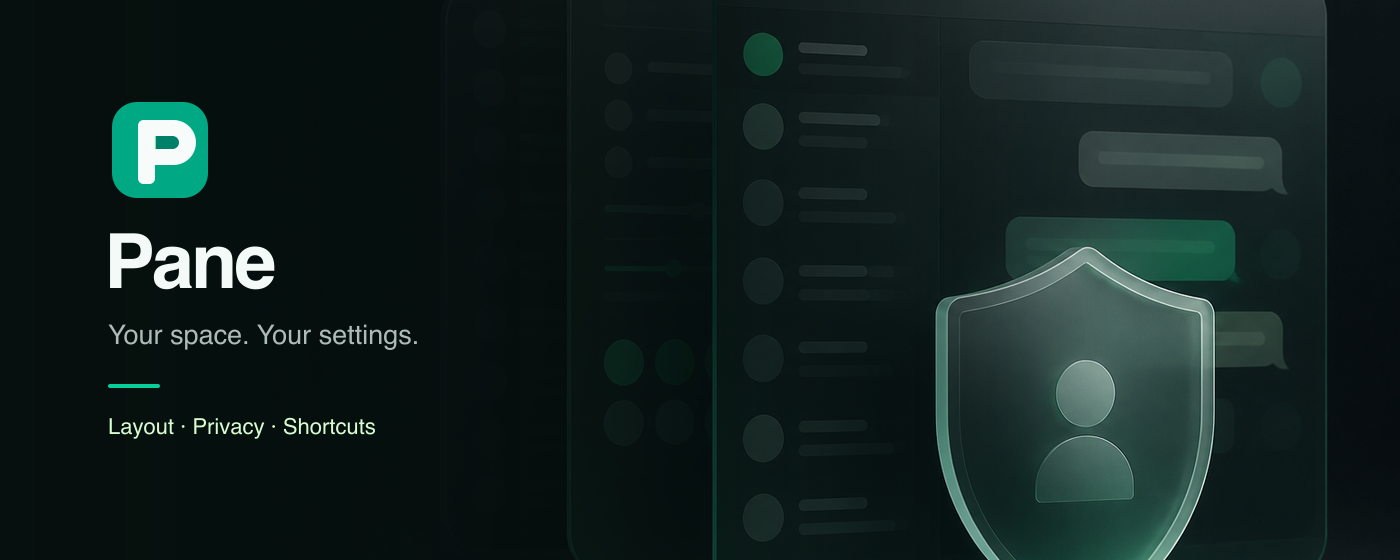
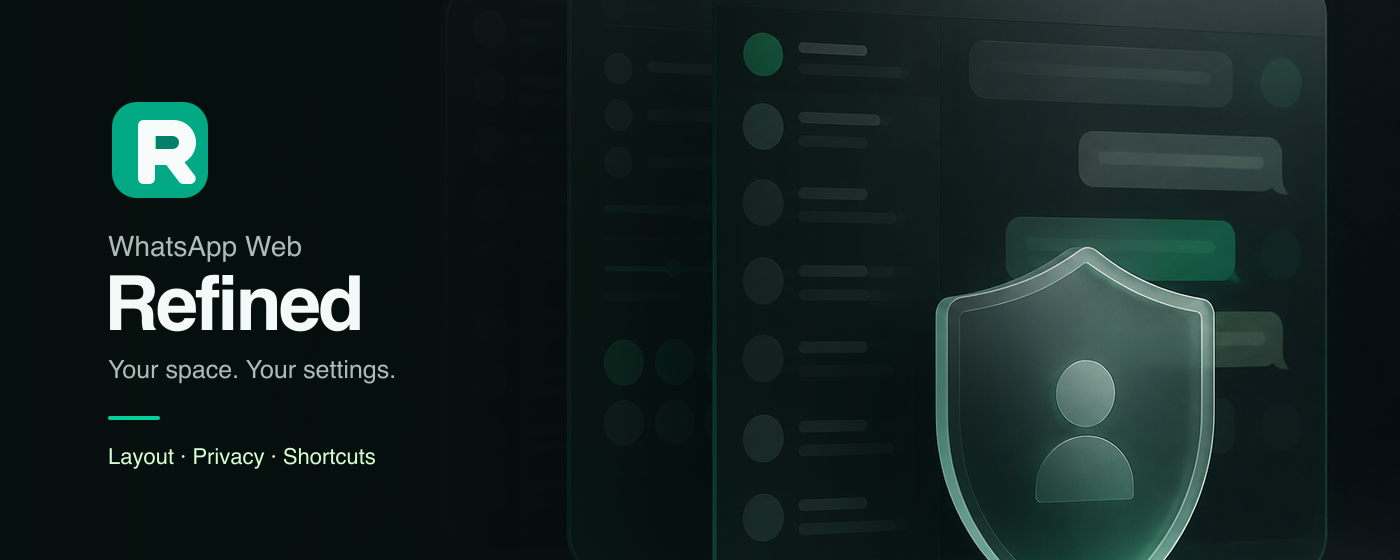
fix: restore WhatsApp Web Refined name

Changed region(s): [[0.0614, 0.3946, 0.3071, 0.6982], [0.0614, 0.7286, 0.2764, 0.85], [0.1229, 0.2732, 0.1536, 0.3339]]

diff --git a/popup/popup.html b/popup/popup.html
@@ -3,7 +3,7 @@
   <head>
     <meta charset="utf-8">
     <meta name="viewport" content="width=device-width, initial-scale=1">
-    <title>Pane settings</title>
+    <title>WhatsApp Web Refined settings</title>
     <link rel="stylesheet" href="popup.css">
   </head>
   <body>
@@ -11,10 +11,10 @@
       <header class="app-header">
         <img class="mark" src="../icons/icon.svg" alt="">
         <div class="title-block">
-          <h1>Pane</h1>
+          <h1>WhatsApp Web Refined</h1>
           <p>Make your workspace feel like yours.</p>
         </div>
-        <label class="toggle master-toggle" title="Enable Pane">
+        <label class="toggle master-toggle" title="Enable WhatsApp Web Refined">
           <input id="enabled" data-setting="enabled" type="checkbox">
           <span aria-hidden="true"></span>
         </label>
@@ -83,14 +83,14 @@
             <span><b id="platformName">macOS shortcuts</b><small id="platformHelp">Uses Command and Option</small></span>
           </div>
 
-          <label class="switch-row standalone-switch" for="keyboardShortcuts"><span><b>Pane shortcuts</b><small>Active while the WhatsApp tab is focused</small></span><input id="keyboardShortcuts" data-setting="keyboardShortcuts" type="checkbox"><i aria-hidden="true"></i></label>
+          <label class="switch-row standalone-switch" for="keyboardShortcuts"><span><b>Refined shortcuts</b><small>Active while the WhatsApp tab is focused</small></span><input id="keyboardShortcuts" data-setting="keyboardShortcuts" type="checkbox"><i aria-hidden="true"></i></label>
 
           <div class="shortcut-list" aria-label="Available keyboard shortcuts">
             <div class="shortcut-row"><span><b>Focus search</b><small>Jump to WhatsApp search</small></span><span class="shortcut-keys" data-mac="⌥|⌘|K" data-other="Ctrl|Alt|K"></span></div>
             <div class="shortcut-row"><span><b>New chat</b><small>Open WhatsApp’s native new-chat panel</small></span><span class="shortcut-keys" data-mac="⌥|⌘|N" data-other="Ctrl|Alt|N"></span></div>
             <div class="shortcut-row"><span><b>Previous / next folder</b><small>Cycles native tabs or sidebar folders</small></span><span class="shortcut-keys" data-mac="⌥|⌘|← / →" data-other="Ctrl|Alt|← / →"></span></div>
             <div class="shortcut-row"><span><b>Privacy mode</b><small>Blur or reveal protected content</small></span><span class="shortcut-keys" data-mac="⌥|⌘|P" data-other="Ctrl|Alt|P"></span></div>
-            <div class="shortcut-row"><span><b>Pane settings</b><small>Open or close this drawer</small></span><span class="shortcut-keys" data-mac="⌥|⌘|," data-other="Ctrl|Alt|,"></span></div>
+            <div class="shortcut-row"><span><b>Refined settings</b><small>Open or close this drawer</small></span><span class="shortcut-keys" data-mac="⌥|⌘|," data-other="Ctrl|Alt|,"></span></div>
           </div>
 
           <p class="shortcut-note">WhatsApp’s own keyboard shortcuts continue to work unchanged. Press Escape to close the settings drawer.</p>

diff --git a/src/content.js b/src/content.js
@@ -1,8 +1,8 @@
-(function initPane() {
+(function initWhatsAppWebRefined() {
   "use strict";
 
-  if (window.top !== window || window.__paneLoaded) return;
-  window.__paneLoaded = true;
+  if (window.top !== window || window.__whatsAppWebRefinedLoaded) return;
+  window.__whatsAppWebRefinedLoaded = true;
 
   const utils = globalThis.WRUtils;
   const { DEFAULTS, normalizeSettings } = globalThis.WRSettings;
@@ -81,7 +81,7 @@
 
     sidebarActions = document.createElement("div");
     sidebarActions.id = "wr-sidebar-actions";
-    sidebarActions.setAttribute("aria-label", "Pane tools");
+    sidebarActions.setAttribute("aria-label", "WhatsApp Web Refined tools");
 
     privacyAction = createButton("wr-sidebar-action wr-sidebar-action--privacy", "Toggle privacy mode", iconMarkup("privacy") + '<span>Privacy</span>');
     privacyAction.disabled = !settings.enabled;
@@ -89,7 +89,7 @@
     privacyAction.setAttribute("aria-pressed", String(settings.privacyEnabled));
     privacyAction.addEventListener("click", togglePrivacy);
 
-    settingsAction = createButton("wr-sidebar-action", "Open Pane settings", iconMarkup("settings") + '<span>Settings</span>');
+    settingsAction = createButton("wr-sidebar-action", "Open Refined settings", iconMarkup("settings") + '<span>Settings</span>');
     settingsAction.setAttribute("aria-pressed", "false");
     settingsAction.addEventListener("click", () => toggleDrawer());
     sidebarActions.append(privacyAction, settingsAction);
@@ -98,15 +98,15 @@
   function createDrawer() {
     drawer = document.createElement("aside");
     drawer.id = "wr-settings-drawer";
-    drawer.setAttribute("aria-label", "Pane settings");
+    drawer.setAttribute("aria-label", "WhatsApp Web Refined settings");
     drawer.setAttribute("aria-hidden", "true");
 
-    const close = createButton("wr-drawer-close", "Close Pane settings", '<svg viewBox="0 0 24 24" aria-hidden="true"><path d="m7 7 10 10M17 7 7 17"/></svg>');
+    const close = createButton("wr-drawer-close", "Close Refined settings", '<svg viewBox="0 0 24 24" aria-hidden="true"><path d="m7 7 10 10M17 7 7 17"/></svg>');
     close.addEventListener("click", () => toggleDrawer(false));
 
     const frame = document.createElement("iframe");
     frame.className = "wr-settings-frame";
-    frame.title = "Pane settings";
+    frame.title = "WhatsApp Web Refined settings";
     const dark = document.documentElement.classList.contains("dark") || document.body.classList.contains("dark");
     const settingsPage = globalThis.chrome?.runtime?.getURL ? chrome.runtime.getURL("popup/popup.html") : "../popup/popup.html";
     const previewSnapshot = location.protocol === "file:" ? `&previewSettings=${encodeURIComponent(JSON.stringify(settings))}` : "";

diff --git a/store/build-assets.js b/store/build-assets.js
@@ -24,7 +24,7 @@ function svgOverlay(width, height, content) {
 }
 
 async function buildPromoAssets() {
-  const art = path.join(__dirname, "source", "pane-marketing-artwork.png");
+  const art = path.join(__dirname, "source", "whatsapp-web-refined-marketing-artwork.png");
   const icon = path.join(root, "icons", "icon128.png");
 
   const marqueeText = svgOverlay(1400, 560, `
@@ -36,10 +36,11 @@ async function buildPromoAssets() {
       </linearGradient>
     </defs>
     <rect width="1400" height="560" fill="url(#shade)"/>
-    <text class="title" x="104" y="288" fill="#f4faf7" font-size="76">Pane</text>
-    <text class="copy" x="108" y="344" fill="#aebcb8" font-size="27">Your space. Your settings.</text>
-    <rect x="108" y="384" width="52" height="4" rx="2" fill="#06cf9c"/>
-    <text class="copy" x="108" y="434" fill="#d9fdd3" font-size="22">Layout · Privacy · Shortcuts</text>
+    <text class="copy" x="108" y="256" fill="#aebcb8" font-size="28">WhatsApp Web</text>
+    <text class="title" x="104" y="330" fill="#f4faf7" font-size="76">Refined</text>
+    <text class="copy" x="108" y="378" fill="#aebcb8" font-size="25">Your space. Your settings.</text>
+    <rect x="108" y="416" width="52" height="4" rx="2" fill="#06cf9c"/>
+    <text class="copy" x="108" y="464" fill="#d9fdd3" font-size="22">Layout · Privacy · Shortcuts</text>
   `);
 
   await sharp(art)
@@ -60,8 +61,8 @@ async function buildPromoAssets() {
       </linearGradient>
     </defs>
     <rect width="440" height="280" fill="url(#shade)"/>
-    <text class="title" x="38" y="202" fill="#f4faf7" font-size="43">${escapeXml("Pane")}</text>
-    <text class="copy" x="40" y="234" fill="#b9c8c3" font-size="16">Layout and privacy, naturally.</text>
+    <text class="copy" x="40" y="198" fill="#b9c8c3" font-size="18">WhatsApp Web</text>
+    <text class="title" x="38" y="240" fill="#f4faf7" font-size="43">${escapeXml("Refined")}</text>
   `);
 
   await sharp(art)
@@ -107,7 +108,7 @@ async function buildScreenshots() {
 (async () => {
   await buildPromoAssets();
   await buildScreenshots();
-  console.log("Built Pane Chrome Web Store assets in store/assets");
+  console.log("Built WhatsApp Web Refined Chrome Web Store assets in store/assets");
 })().catch((error) => {
   console.error(error);
   process.exitCode = 1;

diff --git a/popup/about.html b/popup/about.html
@@ -3,7 +3,7 @@
   <head>
     <meta charset="utf-8">
     <meta name="viewport" content="width=device-width, initial-scale=1">
-    <title>Pane</title>
+    <title>WhatsApp Web Refined</title>
     <link rel="stylesheet" href="about.css">
   </head>
   <body>
@@ -11,7 +11,7 @@
       <header>
         <img class="mark" src="../icons/icon.svg" alt="">
         <div class="identity">
-          <h1>Pane</h1>
+          <h1>WhatsApp Web Refined</h1>
           <p>A calmer workspace for WhatsApp Web.</p>
         </div>
         <span class="state-dot" id="stateDot" aria-hidden="true"></span>
@@ -20,10 +20,10 @@
       <section class="activation" aria-labelledby="activationTitle">
         <div>
           <span class="eyebrow">Extension status</span>
-          <h2 id="activationTitle">Pane is active</h2>
+          <h2 id="activationTitle">Refined is active</h2>
           <p id="activationHelp">Your layout and privacy preferences are applied.</p>
         </div>
-        <button id="activationButton" type="button" aria-pressed="true">Pause Pane</button>
+        <button id="activationButton" type="button" aria-pressed="true">Pause Refined</button>
       </section>
 
       <section class="details" aria-label="Privacy summary">
@@ -38,8 +38,8 @@
       </section>
 
       <footer>
-        <p>Open Pane from the Settings button inside WhatsApp’s sidebar.</p>
-        <span id="version">v1.0.0</span>
+        <p>Open Refined from the Settings button inside WhatsApp’s sidebar.</p>
+        <span id="version">v1.0.1</span>
       </footer>
     </main>
     <script src="../src/settings.js"></script>

diff --git a/demo/index.html b/demo/index.html
@@ -3,7 +3,7 @@
   <head>
     <meta charset="utf-8">
     <meta name="viewport" content="width=device-width, initial-scale=1">
-    <title>Pane — local preview</title>
+    <title>WhatsApp Web Refined — local preview</title>
     <link rel="stylesheet" href="../src/content.css">
     <style>
       :root { --app-background:#161717; --primary:#fafafa; --secondary:rgba(255,255,255,.6); --secondary-rgb:102,119,129; --icon:rgba(255,255,255,.6); --icon-high-emphasis:#00a884; }
@@ -156,7 +156,7 @@
     <script>
       if (previewQuery.has("settings")) {
         window.setTimeout(() => {
-          document.querySelector('button[aria-label="Open Pane settings"]')?.click();
+          document.querySelector('button[aria-label="Open Refined settings"]')?.click();
           const frame = document.querySelector(".wr-settings-frame");
           const openRequestedPanel = () => {
             const target = previewQuery.get("panel") || "layout";

diff --git a/popup/about.js b/popup/about.js
@@ -9,11 +9,11 @@
   function render(value) {
     enabled = Boolean(value);
     document.body.classList.toggle("is-paused", !enabled);
-    document.querySelector("#activationTitle").textContent = enabled ? "Pane is active" : "Pane is paused";
+    document.querySelector("#activationTitle").textContent = enabled ? "Refined is active" : "Refined is paused";
     document.querySelector("#activationHelp").textContent = enabled
       ? "Your layout and privacy preferences are applied."
       : "Activate it to restore your saved interface preferences.";
-    button.textContent = enabled ? "Pause Pane" : "Activate Pane";
+    button.textContent = enabled ? "Pause Refined" : "Activate Refined";
     button.setAttribute("aria-pressed", String(enabled));
     document.querySelector("#stateDot").title = enabled ? "Active" : "Paused";
   }

diff --git a/store/listing.md b/store/listing.md
@@ -2,7 +2,7 @@
 
 ## Product name
 
-Pane
+WhatsApp Web Refined
 
 ## Summary
 
@@ -14,7 +14,7 @@ Productivity
 
 ## Detailed description
 
-Pane gives you thoughtful control over WhatsApp Web without making it feel like a different app.
+WhatsApp Web Refined gives you thoughtful control over WhatsApp Web without making it feel like a different app.
 
 Choose where chat filters live, resize the chat list to suit your screen, hide interface elements you do not use, and protect sensitive conversations with a configurable privacy blur. Every control follows the visual language and interaction patterns already used by WhatsApp Web.
 
@@ -30,37 +30,37 @@ Key features:
 
 Private by design:
 
-Pane contains no analytics, ads, tracking, or remote code. It does not collect or transmit messages, contacts, phone numbers, media, folder names, or usage data. Your preferences stay in local browser storage.
+WhatsApp Web Refined contains no analytics, ads, tracking, or remote code. It does not collect or transmit messages, contacts, phone numbers, media, folder names, or usage data. Your preferences stay in local browser storage.
 
-Pane is an independent extension and is not affiliated with, endorsed by, or sponsored by WhatsApp or Meta. WhatsApp is a trademark of WhatsApp LLC.
+WhatsApp Web Refined is an independent extension and is not affiliated with, endorsed by, or sponsored by WhatsApp or Meta. WhatsApp is a trademark of WhatsApp LLC.
 
 ## Screenshot captions
 
 1. **Your workspace, your width** — Resize the chat panel and keep every control where it feels natural.
 2. **Privacy when you need it** — Blur previews, messages, media, names, and profile photos in one click.
 3. **Folders without the clutter** — Move WhatsApp’s existing filters into its navigation sidebar.
-4. **Shortcuts that fit your computer** — Pane automatically shows the correct macOS, Windows, or Linux keys.
+4. **Shortcuts that fit your computer** — Refined automatically shows the correct macOS, Windows, or Linux keys.
 5. **Quiet by default** — Hide the prompts and navigation items you do not use.
 
 ## Privacy dashboard answers
 
 **Single purpose:** Customize the layout and on-screen privacy presentation of WhatsApp Web according to user-selected preferences.
 
-**`storage` justification:** Stores the user’s Pane preferences locally in the browser so they persist between WhatsApp Web sessions.
+**`storage` justification:** Stores the user’s Refined preferences locally in the browser so they persist between WhatsApp Web sessions.
 
 **Host permission justification:** Runs only on `https://web.whatsapp.com/*` to add the selected layout controls and privacy presentation to that page.
 
 **Remote code:** No.
 
-**Data collection:** None. Pane does not collect, sell, or transmit user data.
+**Data collection:** None. WhatsApp Web Refined does not collect, sell, or transmit user data.
 
 ## Reviewer test instructions
 
 1. Install the unpacked extension and open `https://web.whatsapp.com/`.
 2. Sign in to WhatsApp Web with a test account.
-3. Use the new Settings button in the left navigation to open Pane.
+3. Use the new Settings button in the left navigation to open Refined.
 4. Toggle the chat-folder location, privacy options, and hidden navigation options.
 5. Enable “Resizable chat panel” and drag the right edge of the chat list.
-6. Confirm the toolbar popup can pause and reactivate Pane.
+6. Confirm the toolbar popup can pause and reactivate Refined.
 
 No additional credentials or external service are required beyond access to WhatsApp Web.

diff --git a/store/privacy-policy.md b/store/privacy-policy.md
@@ -1,31 +1,31 @@
-# Pane Privacy Policy
+# WhatsApp Web Refined Privacy Policy
 
 Effective date: August 7, 2026
 
-Pane is a browser extension that customizes the layout and on-screen privacy presentation of WhatsApp Web.
+WhatsApp Web Refined is a browser extension that customizes the layout and on-screen privacy presentation of WhatsApp Web.
 
 ## Data collection
 
-Pane does not collect, transmit, sell, or share personal data or usage data. It contains no analytics, advertising, tracking, telemetry, or remote code.
+WhatsApp Web Refined does not collect, transmit, sell, or share personal data or usage data. It contains no analytics, advertising, tracking, telemetry, or remote code.
 
 ## Page access
 
-Pane runs only on `https://web.whatsapp.com/*`. It reads the visible page structure needed to locate interface elements such as the chat list, filter tabs, navigation buttons, and message surfaces. This processing happens locally in the browser. Pane does not copy, store, or transmit messages, contacts, phone numbers, media, folder names, or account information.
+WhatsApp Web Refined runs only on `https://web.whatsapp.com/*`. It reads the visible page structure needed to locate interface elements such as the chat list, filter tabs, navigation buttons, and message surfaces. This processing happens locally in the browser. The extension does not copy, store, or transmit messages, contacts, phone numbers, media, folder names, or account information.
 
 ## Local preferences
 
-Pane uses Chrome’s local extension storage to remember settings such as panel width, hidden interface elements, shortcut preferences, and privacy blur options. These preferences remain on the current browser profile unless the user removes the extension data.
+WhatsApp Web Refined uses Chrome’s local extension storage to remember settings such as panel width, hidden interface elements, shortcut preferences, and privacy blur options. These preferences remain on the current browser profile unless the user removes the extension data.
 
 ## Network activity
 
-Pane does not send network requests and does not communicate with a developer-controlled server or third party.
+WhatsApp Web Refined does not send network requests and does not communicate with a developer-controlled server or third party.
 
 ## Changes
 
-If Pane’s data practices change, this policy and the Chrome Web Store privacy disclosures will be updated before the change is released.
+If the extension’s data practices change, this policy and the Chrome Web Store privacy disclosures will be updated before the change is released.
 
 ## Contact
 
-For privacy questions, contact the publisher through the support channel shown on Pane’s Chrome Web Store listing.
+For privacy questions, contact the publisher through the support channel shown on the Chrome Web Store listing.
 
-Pane is an independent project and is not affiliated with, endorsed by, or sponsored by WhatsApp or Meta. WhatsApp is a trademark of WhatsApp LLC.
+WhatsApp Web Refined is an independent project and is not affiliated with, endorsed by, or sponsored by WhatsApp or Meta. WhatsApp is a trademark of WhatsApp LLC.

diff --git a/store/brand.md b/store/brand.md
@@ -1,22 +1,23 @@
-# Pane brand guide
+# WhatsApp Web Refined brand guide
 
 ## Positioning
 
-Pane is the quiet control layer for WhatsApp Web: useful, local, and visually at home. Its identity is deliberately distinct from WhatsApp’s logo while its product UI follows the host application’s established tokens.
+WhatsApp Web Refined is the quiet control layer for WhatsApp Web: useful, local, and visually at home. Its identity remains deliberately distinct from WhatsApp’s logo while its product UI follows the host application’s established tokens.
 
 Voice: calm, direct, specific, and privacy-conscious. Avoid superlatives, fear-based privacy claims, or language that suggests an official partnership.
 
 ## Name and compatibility language
 
-- Product name: **Pane**
+- Product name: **WhatsApp Web Refined**
+- Compact interface reference: **Refined**
 - Descriptor: **Layout and privacy controls for WhatsApp Web**
 - Never shorten WhatsApp to “WA” in public copy.
 - Always include the independent-product disclaimer in long-form store or website copy.
-- Do not combine Pane’s mark with the WhatsApp name or logo.
+- Do not combine the Refined mark with the WhatsApp logo.
 
 ## Mark
 
-The Pane mark is a white geometric “P” constructed from a primary pane and a smaller inset pane on a green rounded square. It represents width, focus, and an adjustable workspace. It intentionally avoids WhatsApp’s handset and speech-bubble silhouette.
+The Refined mark is a white geometric “R” constructed from a primary pane, a smaller inset pane, and a forward leg on a green rounded square. It represents width, focus, and an adjustable workspace. It intentionally avoids WhatsApp’s handset and speech-bubble silhouette.
 
 - Master artwork: `../icons/icon.svg`
 - Extension raster sizes: 16, 32, 48, and 128 px
@@ -45,7 +46,7 @@ Use `#25D366` only as a supporting bright green. Lead with `#00A884`, `#111B21`,
 
 ## Typography
 
-Pane uses the host-compatible system UI stack:
+WhatsApp Web Refined uses the host-compatible system UI stack:
 
 `-apple-system, BlinkMacSystemFont, "Segoe UI", Helvetica, Arial, sans-serif`
 
@@ -72,4 +73,4 @@ Pane uses the host-compatible system UI stack:
 - Small promo tile: 440 × 280 PNG
 - Marquee promo tile: 1400 × 560 PNG
 
-Keep store graphics concise, saturated, and readable at half size. Screenshots must show the actual extension experience; promotional tiles may use the abstract Pane artwork.
+Keep store graphics concise, saturated, and readable at half size. Screenshots must show the actual extension experience; promotional tiles may use the abstract Refined artwork.

diff --git a/README.md b/README.md
@@ -1,6 +1,6 @@
-# Pane
+# WhatsApp Web Refined
 
-Pane is a focused Chrome extension that adds native-feeling layout, privacy, and keyboard controls to WhatsApp Web.
+WhatsApp Web Refined is a focused Chrome extension that adds native-feeling layout, privacy, and keyboard controls to WhatsApp Web.
 
 It is an independent project and is not affiliated with, endorsed by, or sponsored by WhatsApp or Meta. WhatsApp is a trademark of WhatsApp LLC.
 
@@ -10,12 +10,12 @@ It is an independent project and is not affiliated with, endorsed by, or sponsor
 - Resize the chat panel by dragging its edge, using the keyboard, or choosing an exact saved width.
 - Hide message previews, the notification prompt, Meta AI, or Channels.
 - Blur previews, opened messages, images, video/GIFs, names, and profile photos with an optional hover reveal.
-- Use platform-aware shortcuts for search, new chat, folder navigation, privacy mode, and Pane settings.
+- Use platform-aware shortcuts for search, new chat, folder navigation, privacy mode, and Refined settings.
 - Configure everything from a settings drawer that follows WhatsApp Web’s own spacing, colors, and controls.
 
 ## Privacy by design
 
-Pane has no analytics, ads, background service, or network requests. It does not collect or transmit messages, contacts, phone numbers, media, folder names, or usage data. The extension reads only the visible WhatsApp Web interface needed to apply the features you select. Preferences are stored locally through `chrome.storage.local`.
+WhatsApp Web Refined has no analytics, ads, background service, or network requests. It does not collect or transmit messages, contacts, phone numbers, media, folder names, or usage data. The extension reads only the visible WhatsApp Web interface needed to apply the features you select. Preferences are stored locally through `chrome.storage.local`.
 
 ## Install locally
 
@@ -24,11 +24,11 @@ Pane has no analytics, ads, background service, or network requests. It does not
 3. Choose **Load unpacked** and select this folder.
 4. Open or refresh [WhatsApp Web](https://web.whatsapp.com/).
 
-Click Pane’s toolbar icon to pause or resume it. Open the full settings drawer from the Settings button added to WhatsApp Web’s navigation sidebar.
+Click the Refined toolbar icon to pause or resume it. Open the full settings drawer from the Settings button added to WhatsApp Web’s navigation sidebar.
 
 ## Development
 
-Pane has no runtime dependencies or build step.
+WhatsApp Web Refined has no runtime dependencies or build step.
 
 ```sh
 npm test
